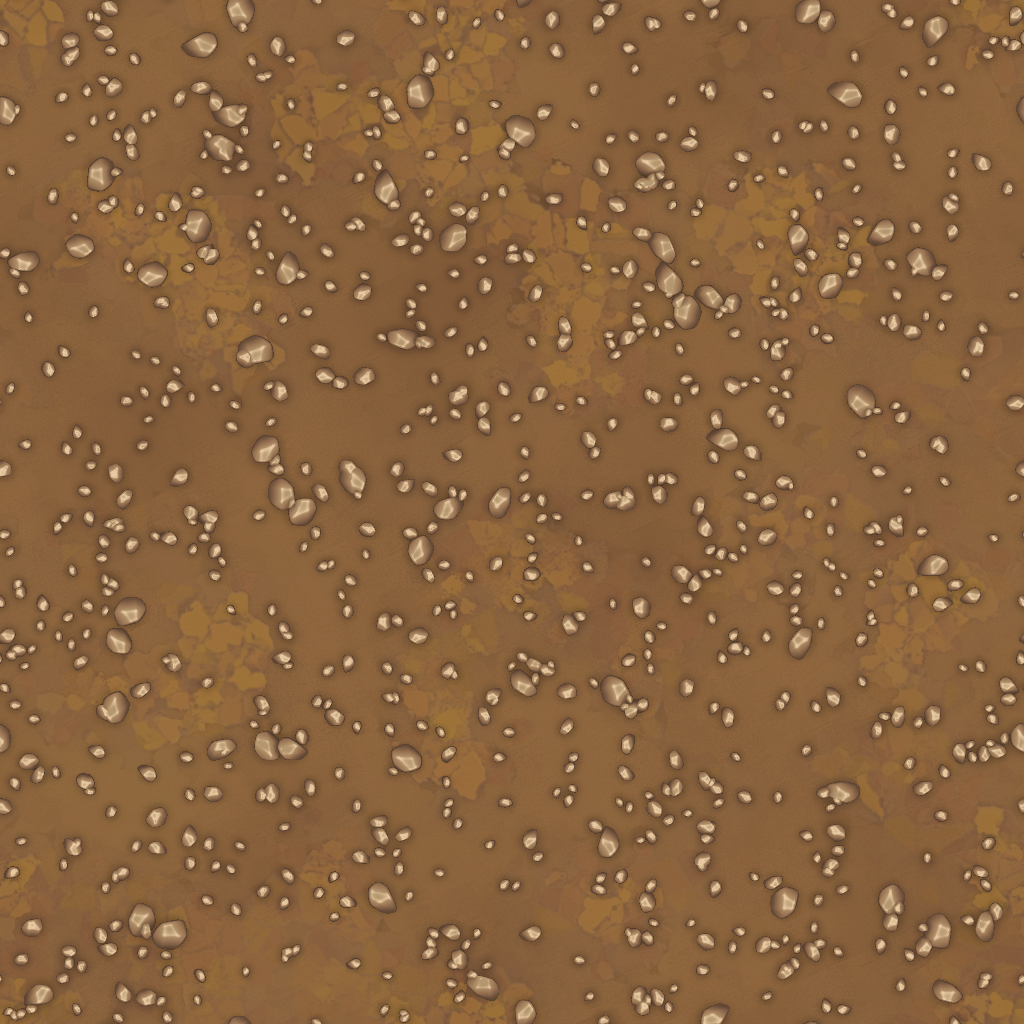
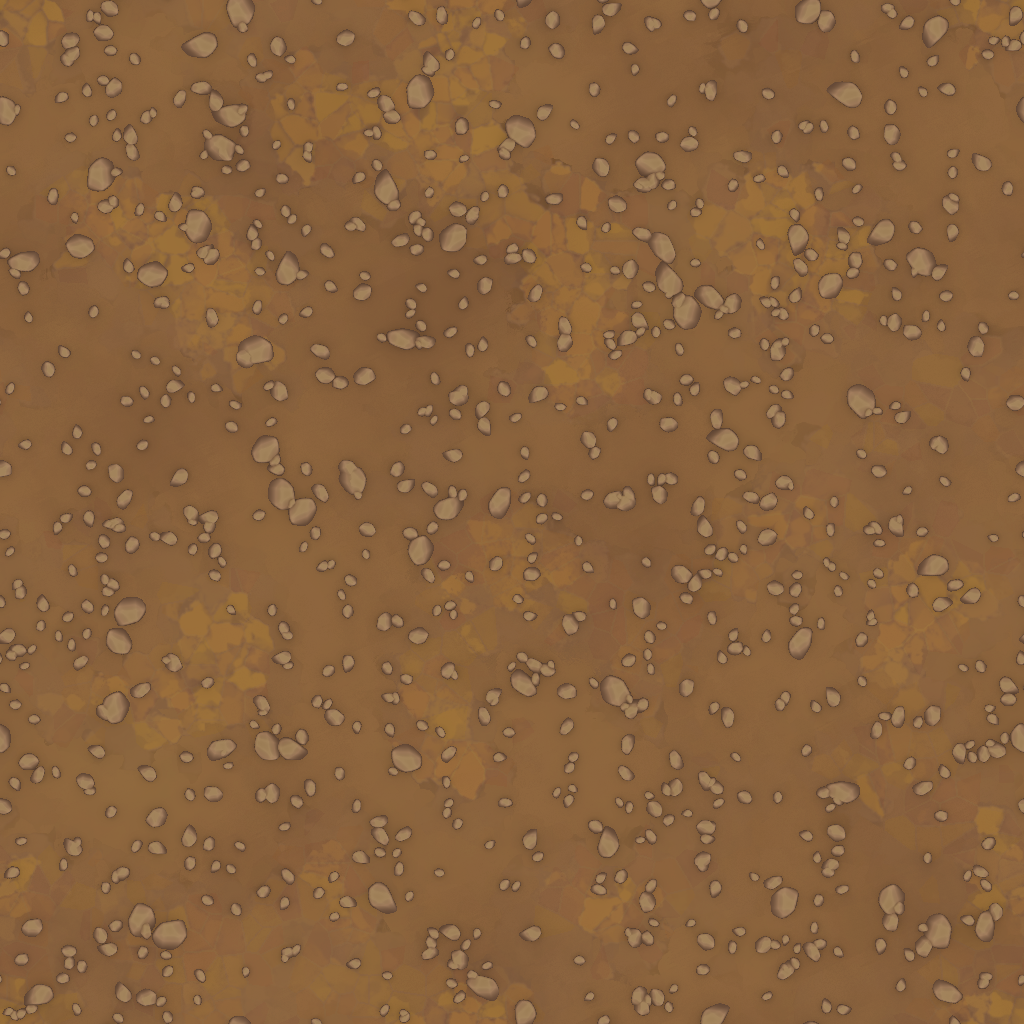
Forest leaf litter texture
Plus some dirt texture tweaks

diff --git a/data/TerrainScript.cs b/data/TerrainScript.cs
@@ -11,6 +11,8 @@ public class TerrainScript : TerrainLoader
 		NewBase("Sm", new List<TerrainType>() { TerrainType.Rough }, -0.4f);		// sand mud
 		NewBase("Sb", new List<TerrainType>() { TerrainType.Rough }, -0.4f);		// sand beach
 		NewBase("Ms", new List<TerrainType>() { TerrainType.Rocky });		// mountains simple
+		NewBase("Gll", new List<TerrainType>() {TerrainType.Flat });		//grass leaf litter
+
 
 		NewShallowWater("Ws", new List<TerrainType>() { TerrainType.ShallowWaters });		// shallow water
 		NewDeepWater("Wo", new List<TerrainType>() { TerrainType.DeepWaters });		// deep water
@@ -27,6 +29,11 @@ public class TerrainScript : TerrainLoader
 		AddTerrainTexture("Gg", "assets/graphics/images/grass_basecolor.png");
 		AddTerrainNormalTexture("Gg", "assets/graphics/images/grass_normal.png");
 		AddTerrainRoughnessTexture("Gg", "assets/graphics/images/grass_roughness.png");
+
+//      Grass leaf litter
+		AddTerrainTexture("Gll", "assets/graphics/images/leaf_litter_basecolor.png");
+		AddTerrainNormalTexture("Gll", "assets/graphics/images/leaf_litter_normal.png");
+		AddTerrainRoughnessTexture("Gll", "assets/graphics/images/leaf_litter_roughness.png");
 
 //		Sand desert
 		AddTerrainTexture("Sd", "assets/graphics/images/sand_dunes_basecolor.png");
